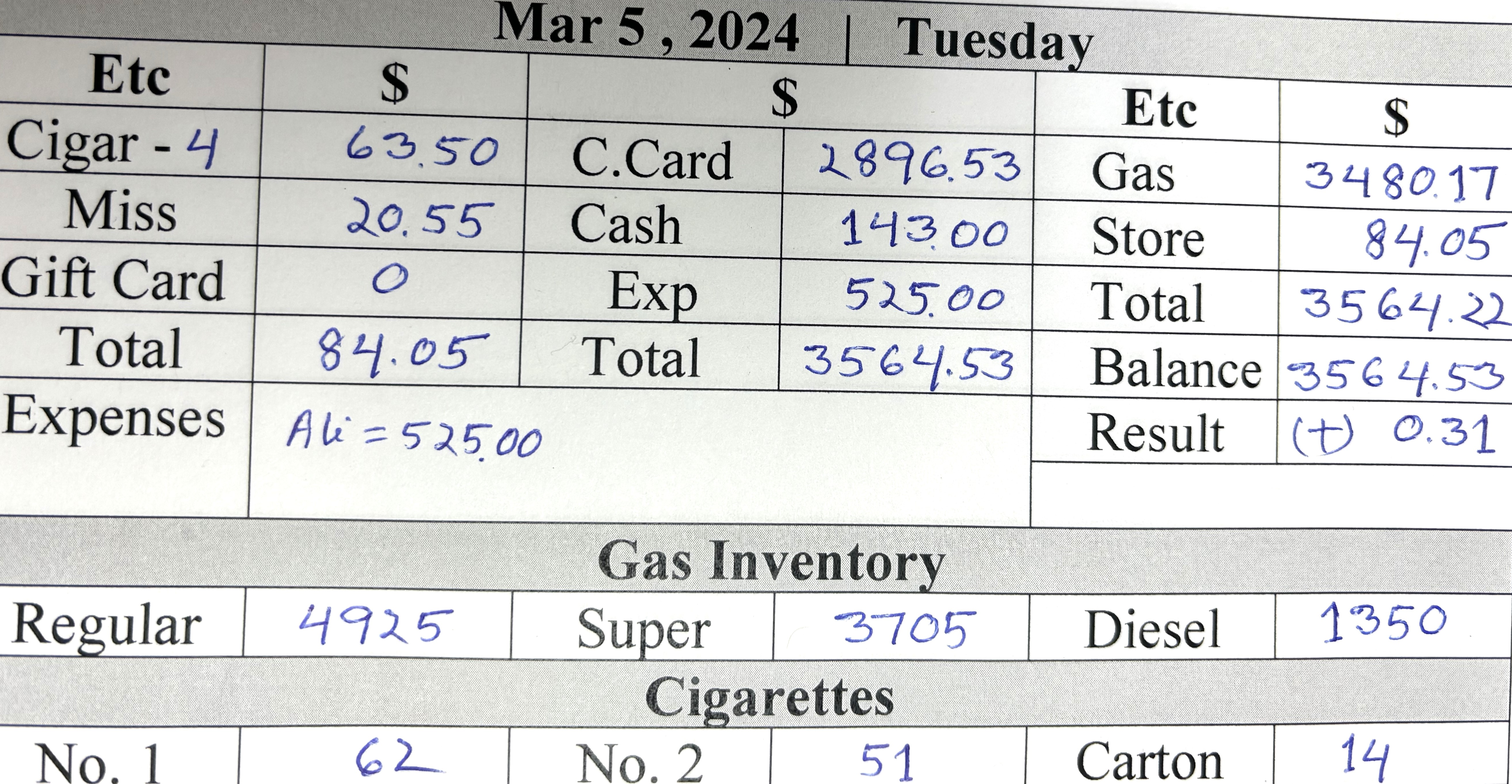
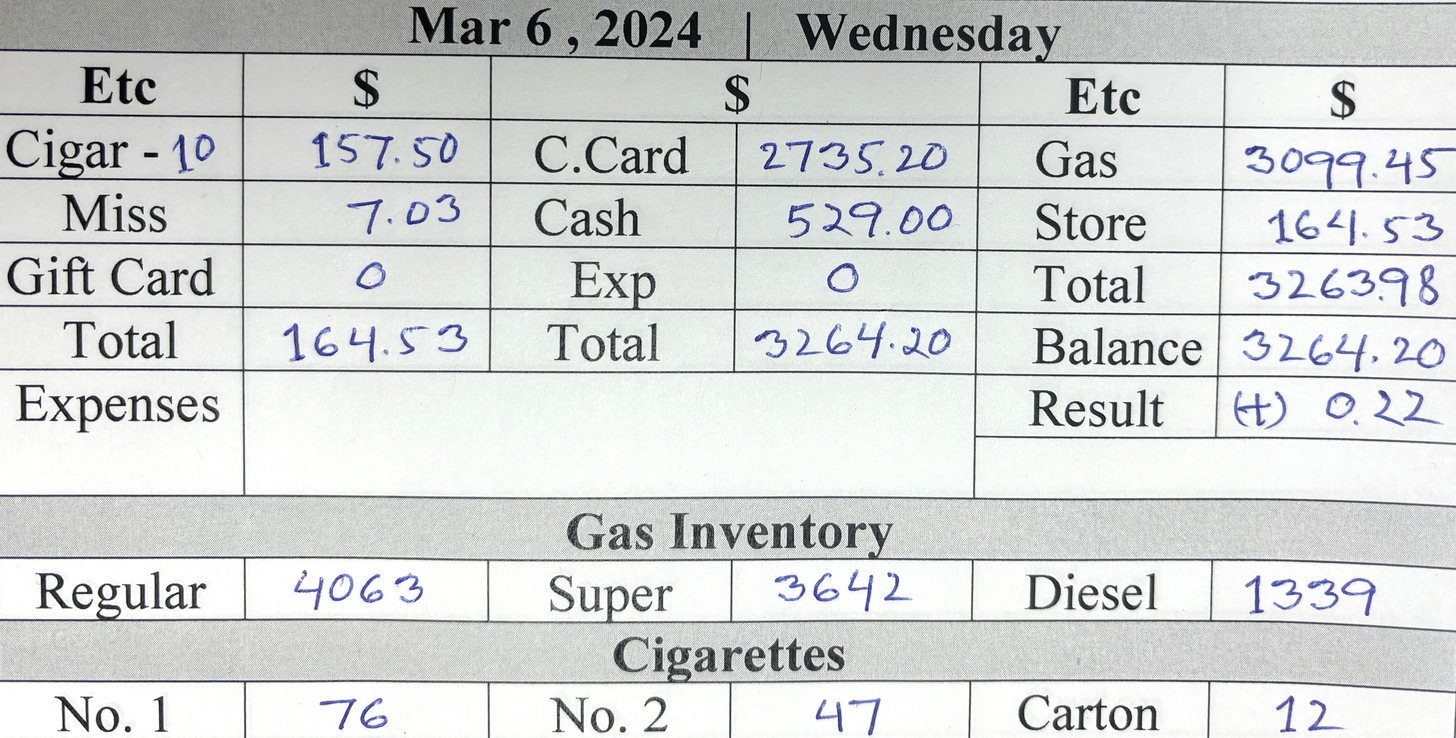
d

diff --git a/card.min.html b/card.min.html
@@ -1,1 +1,1 @@
-<!DOCTYPE html> <html lang="en"> <head> <meta charset="UTF-8"> <meta http-equiv="X-UA-Compatible" content="IE=edge"> <meta name="viewport" content="width=device-width,initial-scale=1"> <title>Gallon Info</title> <link rel="stylesheet" href="https://cdn.jsdelivr.net/npm/bootstrap@5.3.0-alpha1/dist/css/bootstrap.min.css"> </head> <body> <div class="card-group d-sm-flex flex-row bd-highlight mb- justify-content-center"> <div class="card bg-secondary align-items-center justify-content-center" style="height:50px"> <div class="card-body text-info fst-italic"> <h5 class="card-title fw-bolder text-center">Regular Price : <span class="text-warning">$3.15</span></h5> </div> </div> <div class="card bg-secondary align-items-center justify-content-center" style="height:50px"> <div class="card-body text-info fst-italic"> <h5 class="card-title fw-bolder text-center pt-">Silver Price : <span class="text-warning">$4.05</span></h5> </div> </div> <div class="card bg-secondary align-items-center justify-content-center" style="height:50px"> <div class="card-body text-info fst-italic"> <h5 class="card-title fw-bolder text-center">Super Price : <span class="text-warning">$4.15</span></h5> </div> </div> <div class="card bg-secondary align-items-center justify-content-center" style="height:50px"> <div class="card-body text-info fst-italic"> <h5 class="card-title fw-bolder text-center">Diesel Price : <span class="text-warning">$4.39</span></h5> </div> </div> </div> <div class="card-group"> <div class="card"> <button type="button" class="btn btn-warning text- fs- fw-bold text-uppercase"> For store Details <a title="printPage Me" class="text-bg-danger ms-3 fw-bolder p-1 rounded-3 text-decoration-none" href="index.html"> Click Me </a> </button> </div> </div> <div class="card-group m-0 d-sm-flex flex-row bd-highlight mb-"> <div class="card me-1 bg-info"> <h5 class="card-title text-center pt-4 m-0"> <button class="p-1 rounded-3" type="button"><a title="Click Me" class="text-decoration-none text-primary fw-bolder" href="index.html">   </a> </button> </h5>  <p class="card-text"></p> <img src="allPic/5.jpg" class="card-img-top text-danger text-center fw-bolder fs-3" alt="Call Rashid "> <div class="card-body">   <p class="card-text"></p> </div> </div> <div class="card me-1 bg-info"> <h5 class="card-title text-center pt-4 m-0"> <button class="p-1 rounded-3" type="button"><a title="Click Me" class="text-primary fw-bolder text-decoration-none" href="index.html"> Mar 4,2024 </a> </button> </h5>  <p class="card-text"></p> <img src="allPic/4.jpg" class="card-img-top text-center text-bg-danger" alt="Not Done"> <div class="card-body">   <p class="card-text"></p> </div> </div> <div class="card ms- bg-info"> <h5 class="card-title text-center pt-4 m-0"> <button class="p-1 rounded-3" type="button"><a title="Click Me" class="text-primary fw-bolder text-decoration-none" href="index.html"> Mar 3,2024 </a> </button> </h5>  <p class="card-text"></p> <img src="allPic/3.jpg" class="card-img-top text-center text-bg-danger" alt="Not Done"> <div class="card-body">   <p class="card-text"></p> </div> </div> <div class="card me-1 bg-info"> <h5 class="card-title text-center pt-4 m-0"> <button class="p-1 rounded-3" type="button"><a title="Click Me" class="text-primary fw-bolder text-decoration-none" href="index.html"> Mar 2,2024 </a> </button> </h5>  <p class="card-text"></p> <img title="Pic" src="allPic/2.jpg" class="card-img-top text-bg-danger fw-bolder text-center" alt="Already Done"> <div class="card-body">   <p class="card-text"></p> </div> </div> </div> <div class="card"> <div class="card-header bg-warning text-dark fw-bolder text-center py-3"> All Rights Reserved @ Jaber Ali , 2024 </div> </div>  <script type="text/javascript">const timeElement=document.querySelector(".time"),dateElement=document.querySelector(".date");function formatTime(e){e.getHours(),e.getMinutes(),e.getHours();return""}function formatDate(e){return` ${["January","Marruary","March","April","May","June","July","August","September","October","November","December"][e.getMonth()]} ${e.getDate()-1}, ${e.getFullYear()}`}setInterval((()=>{const e=new Date;timeElement.textContent=formatTime(e),dateElement.textContent=formatDate(e)}),200)</script> 
+<!DOCTYPE html> <html lang="en"> <head> <meta charset="UTF-8"> <meta http-equiv="X-UA-Compatible" content="IE=edge"> <meta name="viewport" content="width=device-width,initial-scale=1"> <title>Gallon Info</title> <link rel="stylesheet" href="https://cdn.jsdelivr.net/npm/bootstrap@5.3.0-alpha1/dist/css/bootstrap.min.css"> </head> <body> <div class="card-group d-sm-flex flex-row bd-highlight mb- justify-content-center"> <div class="card bg-secondary align-items-center justify-content-center" style="height:50px"> <div class="card-body text-info fst-italic"> <h5 class="card-title fw-bolder text-center">Regular Price : <span class="text-warning">$3.19</span></h5> </div> </div> <div class="card bg-secondary align-items-center justify-content-center" style="height:50px"> <div class="card-body text-info fst-italic"> <h5 class="card-title fw-bolder text-center pt-">Silver Price : <span class="text-warning">$4.09</span></h5> </div> </div> <div class="card bg-secondary align-items-center justify-content-center" style="height:50px"> <div class="card-body text-info fst-italic"> <h5 class="card-title fw-bolder text-center">Super Price : <span class="text-warning">$4.19</span></h5> </div> </div> <div class="card bg-secondary align-items-center justify-content-center" style="height:50px"> <div class="card-body text-info fst-italic"> <h5 class="card-title fw-bolder text-center">Diesel Price : <span class="text-warning">$4.39</span></h5> </div> </div> </div> <div class="card-group"> <div class="card"> <button type="button" class="btn btn-warning text- fs- fw-bold text-uppercase"> For store Details <a title="printPage Me" class="text-bg-danger ms-3 fw-bolder p-1 rounded-3 text-decoration-none" href="index.html"> Click Me </a> </button> </div> </div> <div class="card-group m-0 d-sm-flex flex-row bd-highlight mb-"> <div class="card me-1 bg-info"> <h5 class="card-title text-center pt-4 m-0"> <button class="p-1 rounded-3" type="button"><a title="Click Me" class="text-decoration-none text-primary fw-bolder" href="index.html">   </a> </button> </h5>  <p class="card-text"></p> <img src="allPic/6.jpg" class="card-img-top text-danger text-center fw-bolder fs-3" alt="Call Rashid "> <div class="card-body">   <p class="card-text"></p> </div> </div> <div class="card me-1 bg-info"> <h5 class="card-title text-center pt-4 m-0"> <button class="p-1 rounded-3" type="button"><a title="Click Me" class="text-primary fw-bolder text-decoration-none" href="index.html"> Mar 5,2024 </a> </button> </h5>  <p class="card-text"></p> <img src="allPic/5.jpg" class="card-img-top text-center text-bg-danger" alt="Not Done"> <div class="card-body">   <p class="card-text"></p> </div> </div> <div class="card ms- bg-info"> <h5 class="card-title text-center pt-4 m-0"> <button class="p-1 rounded-3" type="button"><a title="Click Me" class="text-primary fw-bolder text-decoration-none" href="index.html"> Mar 4,2024 </a> </button> </h5>  <p class="card-text"></p> <img src="allPic/4.jpg" class="card-img-top text-center text-bg-danger" alt="Not Done"> <div class="card-body">   <p class="card-text"></p> </div> </div> <div class="card me-1 bg-info"> <h5 class="card-title text-center pt-4 m-0"> <button class="p-1 rounded-3" type="button"><a title="Click Me" class="text-primary fw-bolder text-decoration-none" href="index.html"> Mar 3,2024 </a> </button> </h5>  <p class="card-text"></p> <img title="Pic" src="allPic/3.jpg" class="card-img-top text-bg-danger fw-bolder text-center" alt="Already Done"> <div class="card-body">   <p class="card-text"></p> </div> </div> </div> <div class="card"> <div class="card-header bg-warning text-dark fw-bolder text-center py-3"> All Rights Reserved @ Jaber Ali , 2024 </div> </div>  <script type="text/javascript">const timeElement=document.querySelector(".time"),dateElement=document.querySelector(".date");function formatTime(e){e.getHours(),e.getMinutes(),e.getHours();return""}function formatDate(e){return` ${["January","Marruary","March","April","May","June","July","August","September","October","November","December"][e.getMonth()]} ${e.getDate()-1}, ${e.getFullYear()}`}setInterval((()=>{const e=new Date;timeElement.textContent=formatTime(e),dateElement.textContent=formatDate(e)}),200)</script> 

diff --git a/weekly.min.html b/weekly.min.html
@@ -1,1 +1,1 @@
-<!DOCTYPE html> <html lang="en"> <meta charset="UTF-8"> <meta http-equiv="X-UA-Compatible" content="IE=edge"> <meta name="viewport" content="width=device-width,initial-scale=1"> <title>Cigarettes Info</title> <link rel="stylesheet" href="https://cdn.jsdelivr.net/npm/bootstrap@5.3.0-alpha1/dist/css/bootstrap.min.css">  <body> <div class="text-bg-success py-2 fw-bold"> <marquee behavior="" direction="">Weekly Total Sales Money</marquee> </div> <div class="container-fluid text-center m-0 p-0"> <div class="card-group"> <div class="card"> <button type="button" class="btn btn-warning fs- fw-bold text-uppercase"> Home Page <a title="printPage Me" class="text-bg-danger ms-2 fw-bolder p-1 rounded-3 text-decoration-none" href="index.html"> Click Me </a> </button> </div> </div> <div class="text-bg-info text-cente py- fw-bold mb-"> <div class="card-group m-0 d-sm-flex flex-row bd-highlight mb-"> <div class="card me- bg-inf"> <h5 class="text-center ms-5 mt-3 text-danger">Current Week</h5> <div class="card-body ms-3 p-0"> <table class="table"> <tr class="text-end"> <td>Monday </td> <td>:</td> <td class="text-start"> 332.00</td> </tr> <tr class="text-end"> <td>Tuesday </td> <td> :</td> <td class="text-start"> 668.00 </td> </tr> <tr class="text-end"> <td>Wednesday</td> <td> :</td> <td class="text-start">.00</td> </tr> <tr class="text-end"> <td>Thursday </td> <td> :</td> <td class="text-start"> .00 </td> </tr> <tr class="text-end"> <td class="">Friday </td> <td> :</td> <td class="text-start"> .00</td> </tr> <tr class="text-end"> <td>Saturday </td> <td> :</td> <td class="text-start">.00</td> </tr> <tr class="text-end"> <td>Sunday </td> <td> :</td> <td class="text-start"> .00 </td> </tr> <tr class="text-end"> <td>Auto Money </td> <td> :</td> <td class="text-start"> .00 </td> </tr> </table> <div class="m-0 p-0"> <p class="text-center text-danger bg-light fw-bold">Total Money : 0 </p> </div> </div> </div> <div class="card me- bg-inf"> <h5 class="text-center ms- mt-3 text-danger">Last Week : Feb 26 to Mar 3 , 2024</h5> <div class="card-body ms-3 p-0"> <table class="table"> <tr class="text-end"> <td>Monday </td> <td>:</td> <td class="text-start"> 399.00</td> </tr> <tr class="text-end"> <td>Tuesday </td> <td> :</td> <td class="text-start"> 196.00 </td> </tr> <tr class="text-end"> <td>Wednesday</td> <td> :</td> <td class="text-start">403.00</td> </tr> <tr class="text-end"> <td>Thursday </td> <td> :</td> <td class="text-start"> 578.00 </td> </tr> <tr class="text-end"> <td class="">Friday </td> <td> :</td> <td class="text-start"> 718.00</td> </tr> <tr class="text-end"> <td>Saturday </td> <td> :</td> <td class="text-start">94.00</td> </tr> <tr class="text-end"> <td>Sunday </td> <td> :</td> <td class="text-start"> 127.00 </td> </tr> <tr class="text-end"> <td>Truck Rent </td> <td> :</td> <td class="text-start"> 150.00 </td> </tr> <tr class="text-end"> <td>Quarter Money </td> <td> :</td> <td class="text-start"> 520.00 </td> </tr> <tr class="text-end"> <td>Auto Money </td> <td> :</td> <td class="text-start">1041 <sup class="p-1 rounded-4 text-bg-dark">Tax:40</sup> [Mostofa=1001] </td> </tr> </table> <div class="m-0 p-0"> <p class="text-center text-danger bg-light fw-bold">Total Money : 4226 - 967 = 3259 </p> </div> </div> </div> <div class="card me- bg-"> <div class="card-body"> <h5 class="text-start text-danger ms-2">Expenses of Last Week</h5> <table class="table text-start"> <tr> <td class="">Ali <span class="ms-5">: 525.00</span></td> </tr> <tr> <td class="">Rashid <span class="ms-3">: 442.00</span></td> </tr> <tr> <td class="text-bg-warning text-dark rounded-2">Total <span class="ms-4">: 967.00</span></td> </tr> </table> </div> </div> </div> </div> <!-- #footer start --> <div class="text-bg-success text-center py-2 fw-bold"> <p> All Rights Reserved @ Jaber Ali , 2024  </p> </div> </div> <script type="text/javascript">function printPage(){window.print()}</script> 
+<!DOCTYPE html> <html lang="en"> <meta charset="UTF-8"> <meta http-equiv="X-UA-Compatible" content="IE=edge"> <meta name="viewport" content="width=device-width,initial-scale=1"> <title>Cigarettes Info</title> <link rel="stylesheet" href="https://cdn.jsdelivr.net/npm/bootstrap@5.3.0-alpha1/dist/css/bootstrap.min.css">  <body> <div class="text-bg-success py-2 fw-bold"> <marquee behavior="" direction="">Weekly Total Sales Money</marquee> </div> <div class="container-fluid text-center m-0 p-0"> <div class="card-group"> <div class="card"> <button type="button" class="btn btn-warning fs- fw-bold text-uppercase"> Home Page <a title="printPage Me" class="text-bg-danger ms-2 fw-bolder p-1 rounded-3 text-decoration-none" href="index.html"> Click Me </a> </button> </div> </div> <div class="text-bg-info text-cente py- fw-bold mb-"> <div class="card-group m-0 d-sm-flex flex-row bd-highlight mb-"> <div class="card me- bg-inf"> <h5 class="text-center ms-5 mt-3 text-danger">Current Week</h5> <div class="card-body ms-3 p-0"> <table class="table"> <tr class="text-end"> <td>Monday </td> <td>:</td> <td class="text-start"> 332.00</td> </tr> <tr class="text-end"> <td>Tuesday </td> <td> :</td> <td class="text-start"> 668.00 </td> </tr> <tr class="text-end"> <td>Wednesday</td> <td> :</td> <td class="text-start">529.00</td> </tr> <tr class="text-end"> <td>Thursday </td> <td> :</td> <td class="text-start"> .00 </td> </tr> <tr class="text-end"> <td class="">Friday </td> <td> :</td> <td class="text-start"> .00</td> </tr> <tr class="text-end"> <td>Saturday </td> <td> :</td> <td class="text-start">.00</td> </tr> <tr class="text-end"> <td>Sunday </td> <td> :</td> <td class="text-start"> .00 </td> </tr> <tr class="text-end"> <td>Auto Money </td> <td> :</td> <td class="text-start"> .00 </td> </tr> </table> <div class="m-0 p-0"> <p class="text-center text-danger bg-light fw-bold">Total Money : 0 </p> </div> </div> </div> <div class="card me- bg-inf"> <h5 class="text-center ms- mt-3 text-danger">Last Week : Feb 26 to Mar 3 , 2024</h5> <div class="card-body ms-3 p-0"> <table class="table"> <tr class="text-end"> <td>Monday </td> <td>:</td> <td class="text-start"> 399.00</td> </tr> <tr class="text-end"> <td>Tuesday </td> <td> :</td> <td class="text-start"> 196.00 </td> </tr> <tr class="text-end"> <td>Wednesday</td> <td> :</td> <td class="text-start">403.00</td> </tr> <tr class="text-end"> <td>Thursday </td> <td> :</td> <td class="text-start"> 578.00 </td> </tr> <tr class="text-end"> <td class="">Friday </td> <td> :</td> <td class="text-start"> 718.00</td> </tr> <tr class="text-end"> <td>Saturday </td> <td> :</td> <td class="text-start">94.00</td> </tr> <tr class="text-end"> <td>Sunday </td> <td> :</td> <td class="text-start"> 127.00 </td> </tr> <tr class="text-end"> <td>Truck Rent </td> <td> :</td> <td class="text-start"> 150.00 </td> </tr> <tr class="text-end"> <td>Quarter Money </td> <td> :</td> <td class="text-start"> 520.00 </td> </tr> <tr class="text-end"> <td>Auto Money </td> <td> :</td> <td class="text-start">1041 <sup class="p-1 rounded-4 text-bg-dark">Tax:40</sup> [Mostofa=1001] </td> </tr> </table> <div class="m-0 p-0"> <p class="text-center text-danger bg-light fw-bold">Total Money : 4226 - 967 = 3259 </p> </div> </div> </div> <div class="card me- bg-"> <div class="card-body"> <h5 class="text-start text-danger ms-2">Expenses of Last Week</h5> <table class="table text-start"> <tr> <td class="">Ali <span class="ms-5">: 525.00</span></td> </tr> <tr> <td class="">Rashid <span class="ms-3">: 442.00</span></td> </tr> <tr> <td class="text-bg-warning text-dark rounded-2">Total <span class="ms-4">: 967.00</span></td> </tr> </table> </div> </div> </div> </div> <!-- #footer start --> <div class="text-bg-success text-center py-2 fw-bold"> <p> All Rights Reserved @ Jaber Ali , 2024  </p> </div> </div> <script type="text/javascript">function printPage(){window.print()}</script> 

diff --git a/index.min.html b/index.min.html
@@ -1,1 +1,1 @@
-<!DOCTYPE html> <html lang="en"> <head> <meta charset="UTF-8"> <meta http-equiv="X-UA-Compatible" content="IE=edge"> <meta name="viewport" content="width=device-width,initial-scale=1"> <title>Store Info</title> <link rel="stylesheet" href="https://cdn.jsdelivr.net/npm/bootstrap@5.3.0-alpha1/dist/css/bootstrap.min.css"> </head> <body> <div class="text-bg-success py-2 fw-bold text-uppercase"> <marquee behavior="" direction=""><span class="text-bolder text-bg-danger rounded-circle m-lg-2 fs-">***</span> Personal Business Information <span class="text-bolder text-bg-danger rounded-circle m-lg-2 fs-">***</span></marquee> </div> <div class="card-group"> <div class="card"> <button type="button" class="btn btn-warning fs- fw-bold text-uppercase"> For Gallon Details <a title="printPage Me" class="text-bg-danger ms-3 fw-bolder p-1 rounded-3 text-decoration-none" href="card.html"> Click Me </a> </button> </div> <div class="card"> <button type="button" class="btn btn-warning fs- fw-bold text-uppercase"> Weekly Total Money<a title="printPage Me" class="text-bg-danger ms-3 fw-bolder p-1 rounded-3 text-decoration-none" href="weekly.html"> Click Me </a> </button> </div> </div> <div class="card-group"> <div class="card"> <button type="button" class="btn btn-warning fs- fw-bold text-uppercase"> Order Cigarettes <a title="printPage Me" class="text-bg-danger ms-3 fw-bolder p-1 rounded-3 text-decoration-none" href="cigarettes.html"> Click Me </a> </button> </div> <div class="card"> <button type="button" class="btn btn-warning fs- fw-bold text-uppercase"> Oil Inventory<a title="printPage Me" class="text-bg-danger ms-3 fw-bolder p-1 rounded-3 text-decoration-none" href="oil.html"> Click Me </a> </button> </div> </div> <div class="text-center py-2"> <button class="fw-bold fs-5 rounded-2 text-bg-light text-primary"> <a title="printPage Me" class="text-decoration-none" href="card.html">   <span class=""> <button class="ms-5 fw-bolder rounded-2" onclick="printPage()"> Print Me </button></span> </a> </button> </div> <div class="card-group"> <div class="card"> <button type="button" class="btn btn-info fs- fw-bold text-uppercase"> Shift Report <span class="text-white ms-1">*</span> </button> <img src="allPic/hisab.jpg" class="card-img-top text-center text-bg-danger" alt="NOT FINISH"> </div> </div> <div class="card-grou"> <div class="card pb-3"> <button type="button" class="btn btn-secondary fs fw-bold text-uppercase"> Exp : <span class="text-warning ms-3">525 </span> </button> </div> </div> <div class="card-group"> <div class="card"> <button type="button" class="btn btn-secondary fs- fw-bold text-uppercase"> Auto shop </button> </div> </div> <div class="pb-3"> <div class="d-flex justify-content-around border border-dark fw-bolder"> <div class="p-0 text-info">T.M</div> <div class="p-0 text-danger">1320</div> <div class="p-0 text-info">Etc</div> <div class="p-0 text-danger">401</div> <div class="p-0 text-info">Rest</div> <div class="p-0 text-danger">919</div> </div> </div> <!-- #footer start --> <div class="text-bg-warning text-center py-3 fw-bold"> All Rights Reserved @ Jaber Ali , 2024 </div>  <script type="text/javascript">function printPage(){window.print()}const timeElement=document.querySelector(".time"),dateElement=document.querySelector(".date");function formatTime(t){const e=t.getHours()%12||12,n=t.getMinutes(),r=t.getHours()<12;return`${e.toString().padStart(2,"0")}:${n.toString().padStart(2,"0")} ${r?"AM":"PM"}`}function formatDate(t){return` ${["January","February","March","April","May","June","July","August","September","October","November","December"][t.getMonth()]} ${t.getDate()-1}, ${t.getFullYear()}`}setInterval((()=>{const t=new Date;timeElement.textContent=formatTime(t),dateElement.textContent=formatDate(t)}),200)</script> 
+<!DOCTYPE html> <html lang="en"> <head> <meta charset="UTF-8"> <meta http-equiv="X-UA-Compatible" content="IE=edge"> <meta name="viewport" content="width=device-width,initial-scale=1"> <title>Store Info</title> <link rel="stylesheet" href="https://cdn.jsdelivr.net/npm/bootstrap@5.3.0-alpha1/dist/css/bootstrap.min.css"> </head> <body> <div class="text-bg-success py-2 fw-bold text-uppercase"> <marquee behavior="" direction=""><span class="text-bolder text-bg-danger rounded-circle m-lg-2 fs-">***</span> Personal Business Information <span class="text-bolder text-bg-danger rounded-circle m-lg-2 fs-">***</span></marquee> </div> <div class="card-group"> <div class="card"> <button type="button" class="btn btn-warning fs- fw-bold text-uppercase"> For Gallon Details <a title="printPage Me" class="text-bg-danger ms-3 fw-bolder p-1 rounded-3 text-decoration-none" href="card.html"> Click Me </a> </button> </div> <div class="card"> <button type="button" class="btn btn-warning fs- fw-bold text-uppercase"> Weekly Total Money<a title="printPage Me" class="text-bg-danger ms-3 fw-bolder p-1 rounded-3 text-decoration-none" href="weekly.html"> Click Me </a> </button> </div> </div> <div class="card-group"> <div class="card"> <button type="button" class="btn btn-warning fs- fw-bold text-uppercase"> Order Cigarettes <a title="printPage Me" class="text-bg-danger ms-3 fw-bolder p-1 rounded-3 text-decoration-none" href="cigarettes.html"> Click Me </a> </button> </div> <div class="card"> <button type="button" class="btn btn-warning fs- fw-bold text-uppercase"> Oil Inventory<a title="printPage Me" class="text-bg-danger ms-3 fw-bolder p-1 rounded-3 text-decoration-none" href="oil.html"> Click Me </a> </button> </div> </div> <div class="text-center py-2"> <button class="fw-bold fs-5 rounded-2 text-bg-light text-primary"> <a title="printPage Me" class="text-decoration-none" href="card.html">   <span class=""> <button class="ms-5 fw-bolder rounded-2" onclick="printPage()"> Print Me </button></span> </a> </button> </div> <div class="card-group"> <div class="card"> <button type="button" class="btn btn-info fs- fw-bold text-uppercase"> Shift Report <span class="text-white ms-1">*</span> </button> <img src="allPic/hisab.jpg" class="card-img-top text-center text-bg-danger" alt="NOT FINISH"> </div> </div> <div class="card-grou"> <div class="card pb-3"> <button type="button" class="btn btn-secondary fs fw-bold text-uppercase"> Exp : <span class="text-warning ms-3">0 </span> </button> </div> </div> <div class="card-group"> <div class="card"> <button type="button" class="btn btn-secondary fs- fw-bold text-uppercase"> Auto shop </button> </div> </div> <div class="pb-3"> <div class="d-flex justify-content-around border border-dark fw-bolder"> <div class="p-0 text-info">T.M</div> <div class="p-0 text-danger">1470</div> <div class="p-0 text-info">Etc</div> <div class="p-0 text-danger">401</div> <div class="p-0 text-info">Rest</div> <div class="p-0 text-danger">1069</div> </div> </div> <!-- #footer start --> <div class="text-bg-warning text-center py-3 fw-bold"> All Rights Reserved @ Jaber Ali , 2024 </div>  <script type="text/javascript">function printPage(){window.print()}const timeElement=document.querySelector(".time"),dateElement=document.querySelector(".date");function formatTime(t){const e=t.getHours()%12||12,n=t.getMinutes(),r=t.getHours()<12;return`${e.toString().padStart(2,"0")}:${n.toString().padStart(2,"0")} ${r?"AM":"PM"}`}function formatDate(t){return` ${["January","February","March","April","May","June","July","August","September","October","November","December"][t.getMonth()]} ${t.getDate()-1}, ${t.getFullYear()}`}setInterval((()=>{const t=new Date;timeElement.textContent=formatTime(t),dateElement.textContent=formatDate(t)}),200)</script> 

diff --git a/card.html b/card.html
@@ -15,20 +15,20 @@
     <div class="card bg-secondary align-items-center justify-content-center" style="height:50px;">
       <div class="card-body text-info fst-italic">
         <h5 class="card-title fw-bolder text-center">Regular Price : 
-          <span class="text-warning">$3.15</span></h5>
+          <span class="text-warning">$3.19</span></h5>
       </div>
     </div>
 
     <div class="card bg-secondary align-items-center justify-content-center " style="height:50px;">
       <div class="card-body text-info  fst-italic ">
         <h5 class="card-title fw-bolder text-center pt-">Silver Price :
-           <span class="text-warning">$4.05</span></h5>
+           <span class="text-warning">$4.09</span></h5>
       </div>
     </div>
     <div class="card bg-secondary align-items-center justify-content-center" style="height:50px;">
       <div class="card-body text-info fst-italic">
         <h5 class="card-title fw-bolder text-center">Super Price : 
-          <span class="text-warning">$4.15</span></h5>
+          <span class="text-warning">$4.19</span></h5>
       </div>
     </div>
     <div class="card bg-secondary align-items-center justify-content-center" style="height:50px;">
@@ -67,7 +67,7 @@
         </h5>
           <p class="card-text"></p>
           <p class="card-text"><small class="text-muted"></small></p>
-        <img src="allPic/5.jpg" class="card-img-top text-danger text-center fw-bolder fs-3"   alt="Call Rashid ">
+        <img src="allPic/6.jpg" class="card-img-top text-danger text-center fw-bolder fs-3"   alt="Call Rashid ">
         <div class="card-body">
           <h5 class="card-title"></h5>
           <p class="card-text"></p>
@@ -78,13 +78,13 @@
         <h5 class="card-title text-center pt-4 m-0">
           <button class="p-1 rounded-3" type="button"><a title="Click Me"
              class="text-primary fw-bolder text-decoration-none " href="index.html">
-             Mar 4,2024
+             Mar 5,2024
           </a>
           </button>
         </h5>
           <p class="card-text"></p>
           <p class="card-text"><small class="text-muted"></small></p>
-        <img src="allPic/4.jpg" class="card-img-top text-center text-bg-danger" 
+        <img src="allPic/5.jpg" class="card-img-top text-center text-bg-danger" 
         alt="Not Done">
         <div class="card-body">
           <h5 class="card-title"></h5>
@@ -96,13 +96,13 @@
         <h5 class="card-title text-center pt-4 m-0 ">
           <button class="p-1 rounded-3" type="button"><a title="Click Me" 
             class="text-primary fw-bolder text-decoration-none " href="index.html">
-            Mar 3,2024         
+            Mar 4,2024         
           </a>
           </button>
           </h5>
           <p class="card-text"></p>
           <p class="card-text"><small class="text-muted"></small></p>
-        <img src="allPic/3.jpg" class="card-img-top text-center text-bg-danger" 
+        <img src="allPic/4.jpg" class="card-img-top text-center text-bg-danger" 
         alt="Not Done">
         <div class="card-body">
           <h5 class="card-title"></h5>
@@ -115,13 +115,13 @@
         <h5 class="card-title text-center pt-4 m-0 ">
           <button class="p-1 rounded-3" type="button"><a title="Click Me" 
             class="text-primary fw-bolder text-decoration-none " href="index.html">
-             Mar 2,2024
+             Mar 3,2024
             </a>
           </button>
           </h5>
           <p class="card-text"></p>
           <p class="card-text"><small class="text-muted"></small></p>
-        <img title="Pic" src="allPic/2.jpg" class="card-img-top  text-bg-danger fw-bolder text-center"
+        <img title="Pic" src="allPic/3.jpg" class="card-img-top  text-bg-danger fw-bolder text-center"
          alt="Already Done">
         <div class="card-body">
           <h5 class="card-title"></h5>

diff --git a/index.html b/index.html
@@ -98,7 +98,7 @@
           type="button"
           class="btn btn-secondary fs fw-bold text-uppercase">
          <!-- Exp  :  <span class="text-warning ms-3">rashid :  377 </span> -->
-         Exp  : <span class="text-warning ms-3">525 </span>
+         Exp  : <span class="text-warning ms-3">0 </span>
         </button> 
       </div>
     </div>
@@ -118,11 +118,11 @@
       <div class="d-flex justify-content-around border border-dark fw-bolder">
         <!--this week start-->
         <div class="p-0 text-info">T.M</div>
-        <div class="p-0 text-danger">1320</div>
+        <div class="p-0 text-danger">1470</div>
         <div class="p-0 text-info">Etc</div>
         <div class="p-0 text-danger">401</div>
         <div class="p-0 text-info">Rest</div>
-        <div class="p-0 text-danger">919</div>
+        <div class="p-0 text-danger">1069</div>
           <!---->
         </div>
       </div>

diff --git a/weekly.html b/weekly.html
@@ -59,7 +59,7 @@
                 <tr class=" text-end">
                     <td>Wednesday</td>
                     <td> :</td>
-                    <td class="text-start">.00</td>
+                    <td class="text-start">529.00</td>
                 </tr>
                 <tr class=" text-end">
                     <td>Thursday </td>
